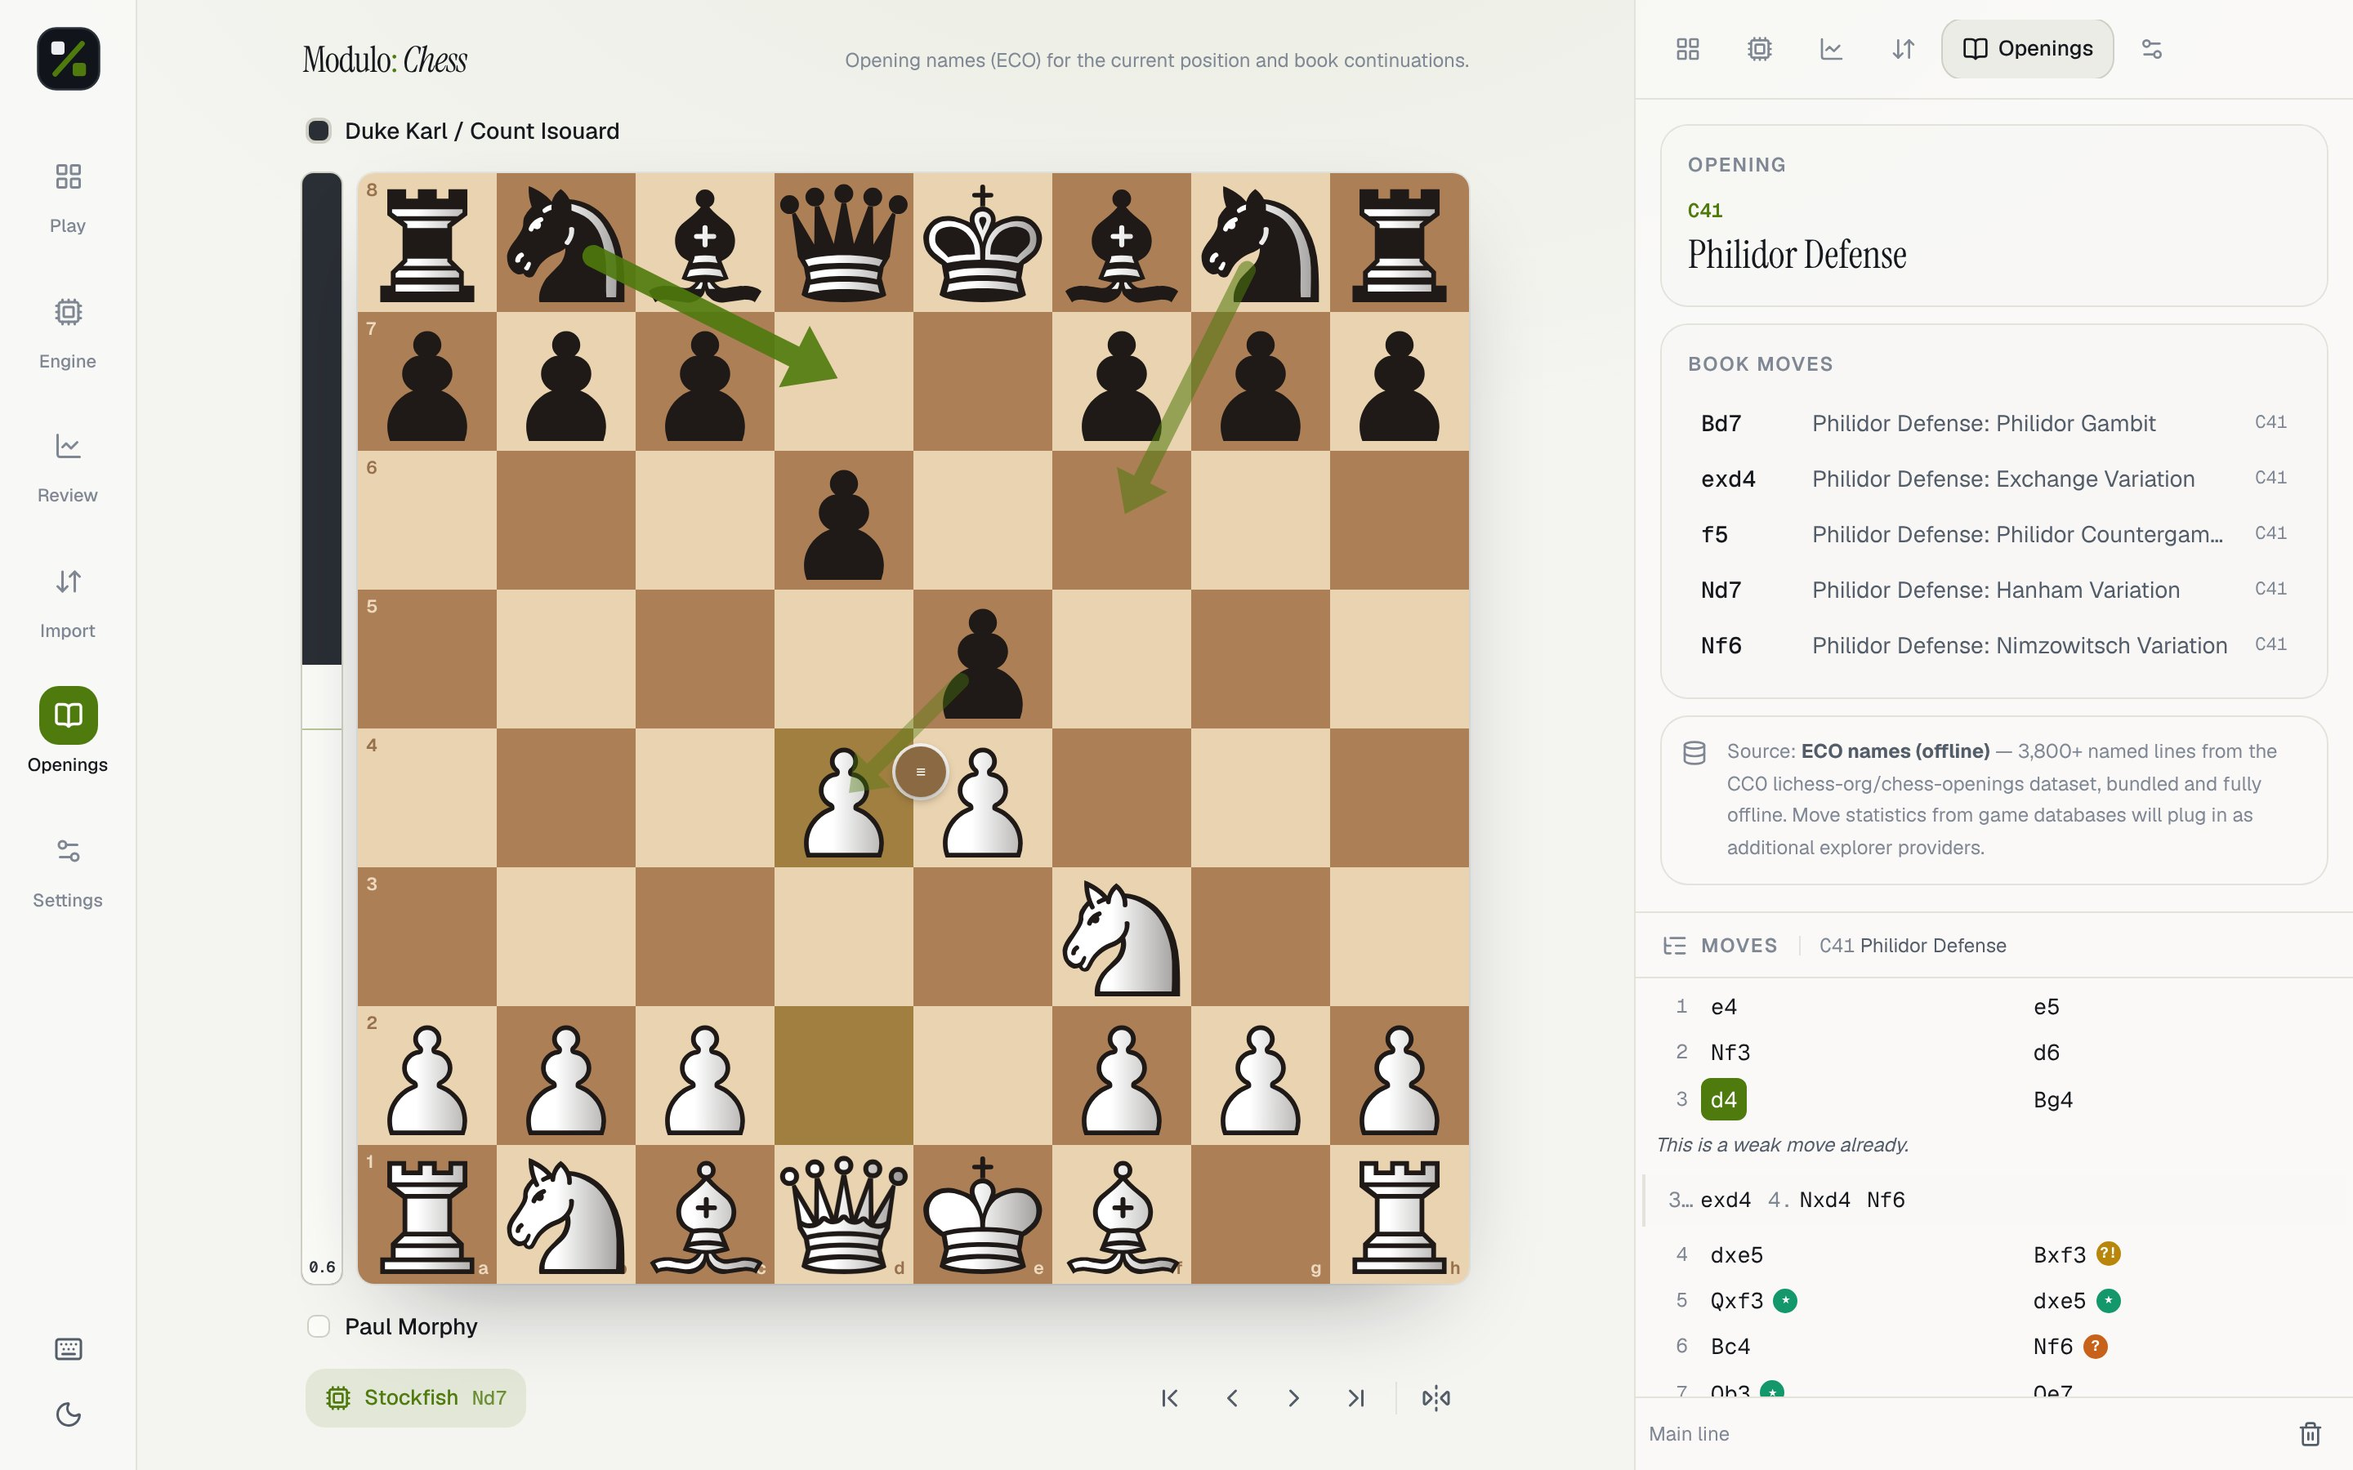
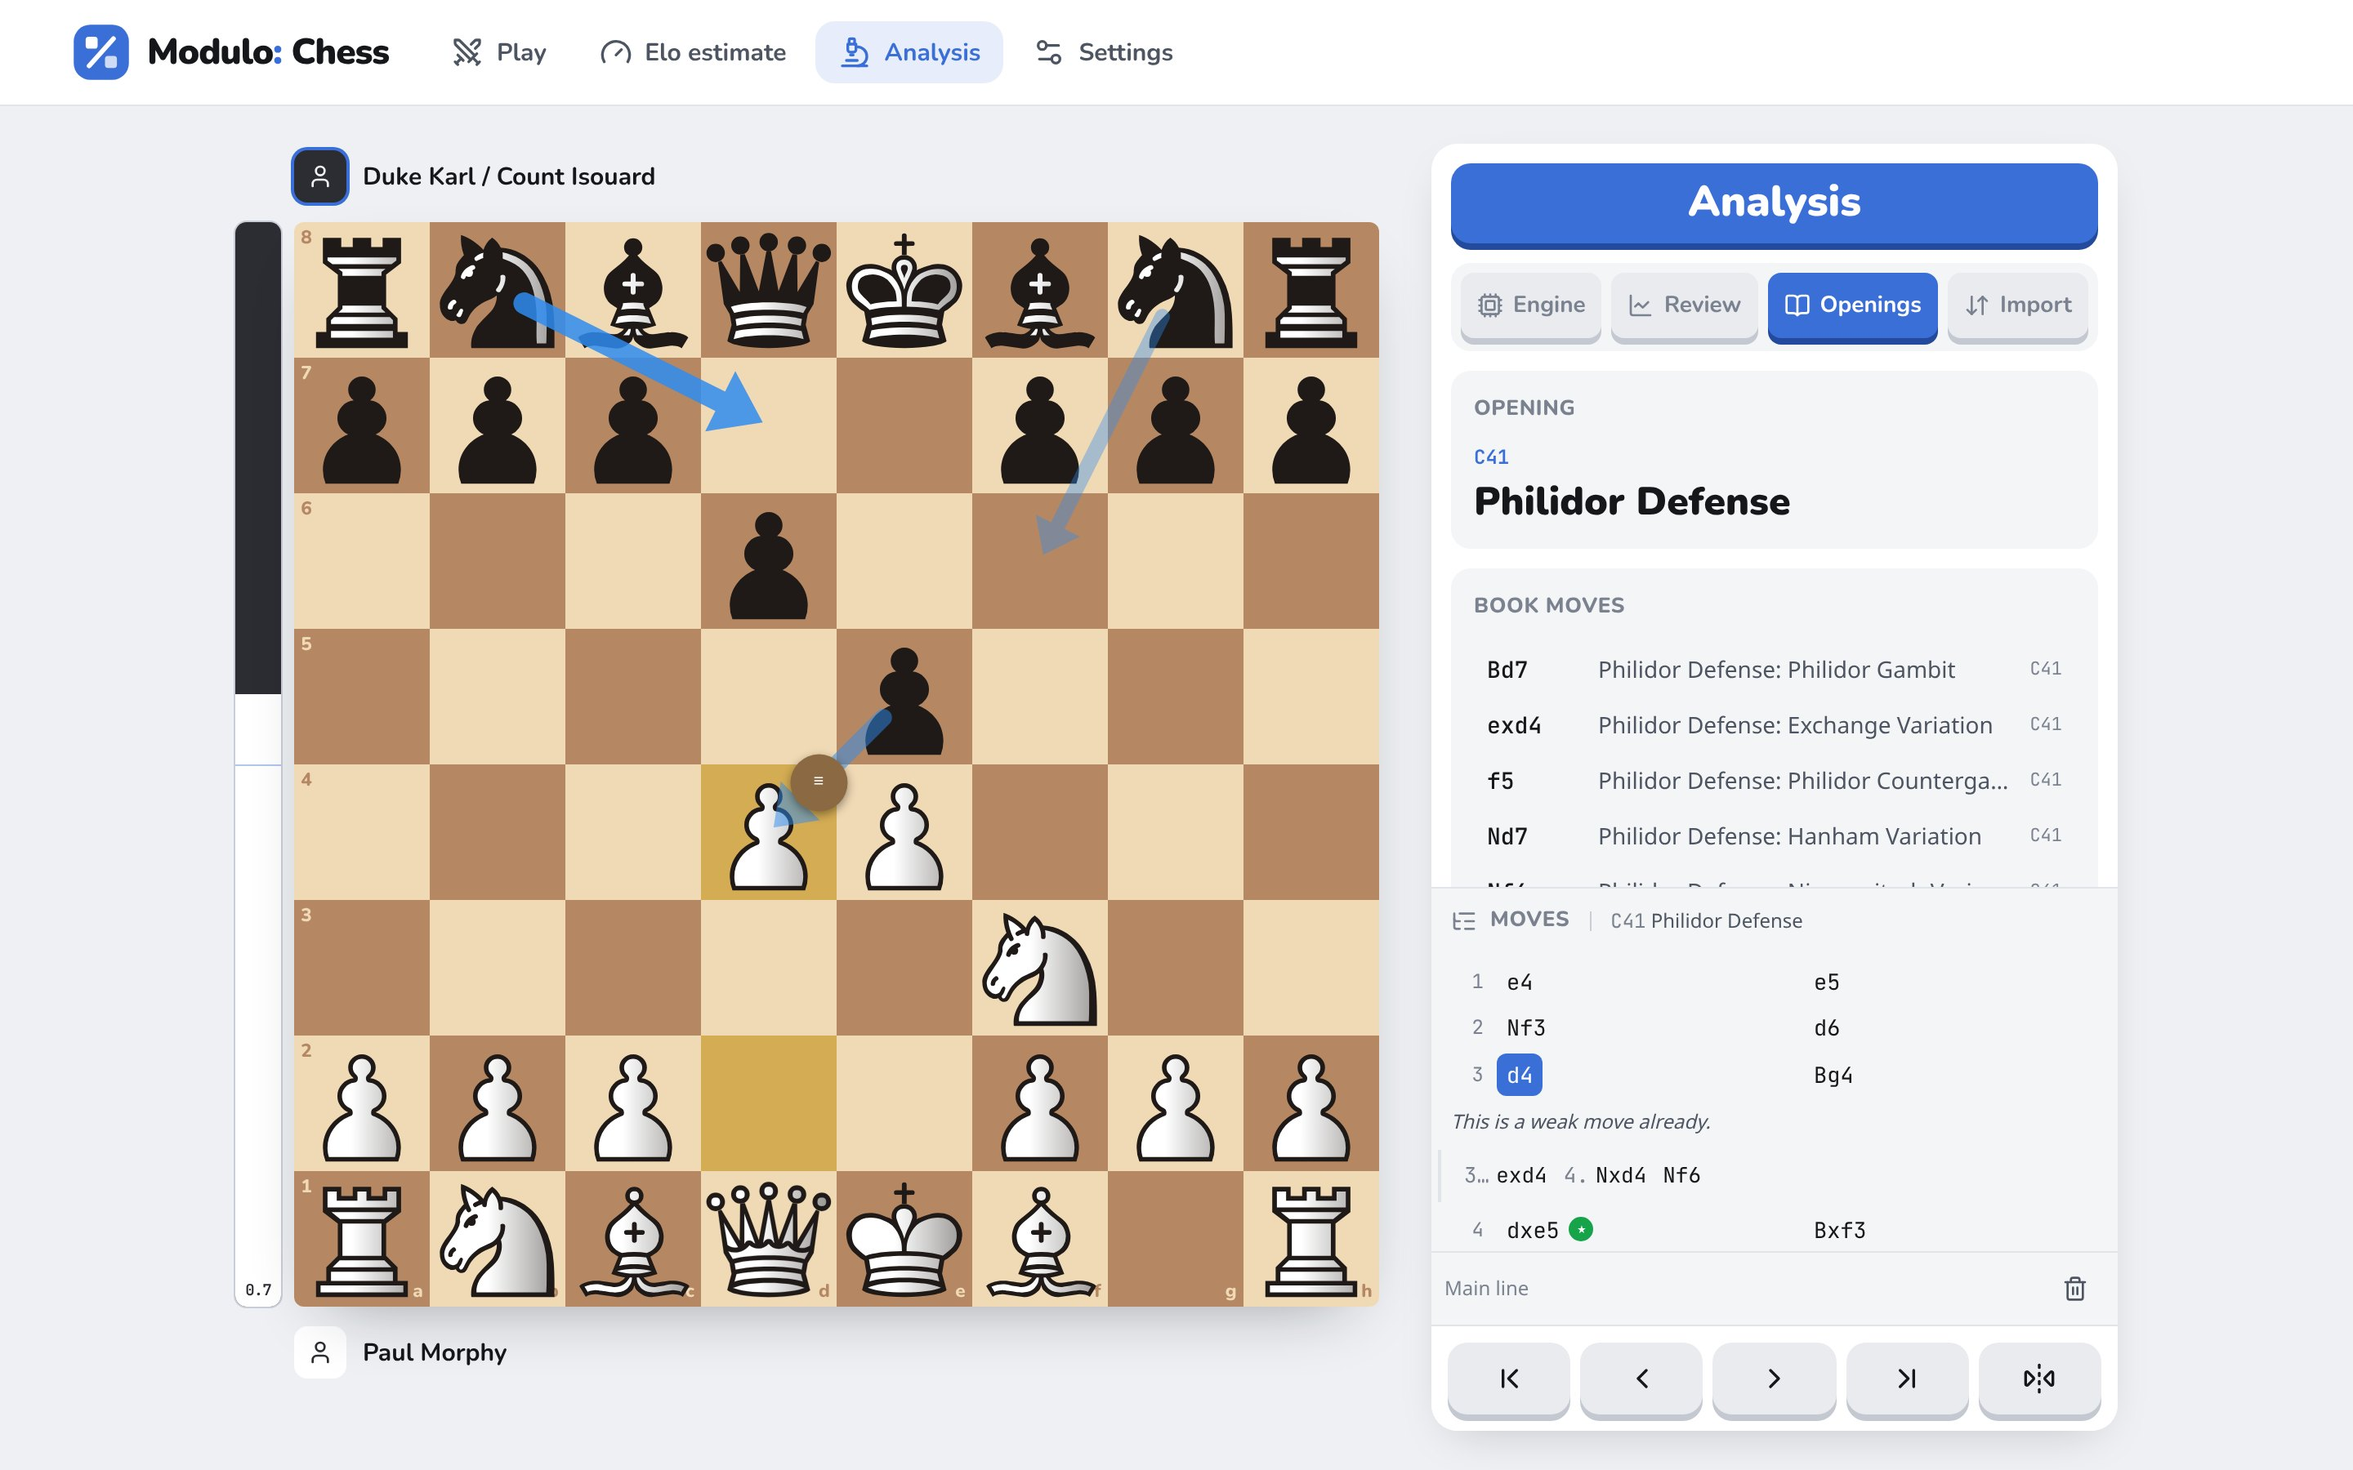
docs: update README and screenshots for the redesign and Elo estimate
Claude-Session: https://claude.ai/code/session_01FXBF7jtJxjrUtqt1y8qRxQ

diff --git a/README.md b/README.md
@@ -2,11 +2,15 @@
 
 **A modular chess analysis and play platform. Stockfish 19 runs entirely in your browser: no account, no backend, and nothing leaves your device.**
 
-Every feature is an isolated _module_ that plugs into a small core: the board, the engine, game review, import/export, openings and settings. New features can be added without refactoring anything, which is where the name comes from. The logo is a modulo operator (`%`) whose dots are chess squares.
+Every feature is an isolated _module_ that plugs into a small core: the board and play, an Elo estimate, the engine, game review, import/export, openings and settings. New features can be added without refactoring anything, which is where the name comes from. The logo is a modulo operator (`%`) whose dots are chess squares.
 
 [![Deploy with Vercel](https://vercel.com/button)](https://vercel.com/new/clone?repository-url=https%3A%2F%2Fgithub.com%2Fleiffurthersocial-rgb%2Fmodulo-chess&project-name=modulo-chess&repository-name=modulo-chess)
 
-| Game review (dark)                               | Openings (light, Walnut + Merida)                         |
+| Play vs Stockfish (Elo 250–3190)              | Elo estimate                                   |
+| --------------------------------------------- | ---------------------------------------------- |
+| ![Play setup](docs/screenshots/play-dark.jpg) | ![Elo estimate](docs/screenshots/elo-dark.jpg) |
+
+| Game review                                      | Openings (light theme, Merida pieces)                     |
 | ------------------------------------------------ | --------------------------------------------------------- |
 | ![Game review](docs/screenshots/review-dark.jpg) | ![Openings explorer](docs/screenshots/openings-light.jpg) |
 
@@ -23,7 +27,14 @@ Every feature is an isolated _module_ that plugs into a small core: the board, t
 - Custom animated board: drag-and-drop (mouse and touch), click-to-move, legal-move hints, last-move and check highlights, promotion picker, flip, coordinates.
 - Moves animate because piece identity is tracked between positions; a CSS transform does the rest.
 - Move list with **variations** (every move from an earlier position creates a branch), comments and NAGs, plus promote/delete variation. Navigate with the arrow keys or by clicking.
-- Play against Stockfish at **Skill Level 0–20** or a **target Elo (1320–3190)** via `UCI_LimitStrength`, as White, Black or random, optionally from the current position. Takeback, resign, rematch, and one click to review the game.
+- Play Stockfish at any **Elo from 250 to 3190**, with presets from Beginner (400) to Maximum. From 1320 up, Stockfish's own `UCI_LimitStrength`/`UCI_Elo` is used. Below 1320 (Stockfish's floor), Modulo weakens it itself: a shallower MultiPV search, a move _sampled_ by how much win probability it gives away, and occasional beginner-style oversights (`src/core/engine/strength.ts`).
+- Play as White, Black or random, optionally from the current position. Takeback, resign, rematch, and one click to review the game.
+
+**Elo estimate**
+
+- **Quick estimate (1 game):** the opponent adapts while you play. After a few moves it moves halfway towards your running estimate, at most 200 points at a time.
+- **Full estimate (3 games):** colours alternate, and each new opponent is set to your estimate so far. This gives a tighter range.
+- Every position is evaluated in the background on the analysis engine. Your non-book moves are scored by **win-probability accuracy** (harmonic mean, as lichess does, so single blunders count) and **average centipawn loss**. Move quality is blended with a **performance rating** from your results against each opponent's Elo, and quality gets more weight the longer the game. You get an estimate with a likely range (`src/core/analysis/eloEstimate.ts`). Past estimates are kept in `localStorage`.
 
 **Local Stockfish analysis**
 
@@ -50,8 +61,8 @@ Every feature is an isolated _module_ that plugs into a small core: the board, t
 **Design**
 
 - Dark theme by default plus light and system themes, all as CSS variables. There are 5 board themes and 4 open-licensed piece sets.
-- Typography: Geist, Geist Mono for numbers and moves, and Instrument Serif for display text. Motion is subtle and respects `prefers-reduced-motion`.
-- Responsive. On desktop: nav rail, centred board, tabbed analysis panel and move list. On mobile: full-width board, a move strip, and a draggable bottom sheet.
+- Clear two-part layout. A top bar holds the pages (Play, Elo estimate, Analysis, Settings). The board stands alone on the left, with player cards and the eval bar. **All controls** live in one panel card on the right: a title banner, chunky tabs for the page's tools, the content, the move list, and move navigation at the bottom. On mobile the panel sits below the board and move navigation is pinned to the bottom of the screen.
+- Slate palette with a single blue accent, Nunito for headings and buttons, Noto Sans for text, and JetBrains Mono for moves and numbers. Buttons are "pressable" 3D controls. Motion is subtle and respects `prefers-reduced-motion`.
 - Accessible: the board is an ARIA grid with a roving keyboard cursor (arrows + Enter to move pieces). Visible focus states, live regions for engine and game status, a skip link, and a `?` shortcut sheet.
 - Synthesized move, capture, check and game-end sounds (WebAudio, no audio assets), which can be toggled off.
 
@@ -85,7 +96,7 @@ npm i -D playwright && npx playwright install chromium   # once
 npm run verify:engine -- http://localhost:3000
 ```
 
-This drives a real Chromium through 15 checks:
+This drives a real Chromium through 16 checks:
 
 - cross-origin isolation and the multi-threaded boot
 - 3 MultiPV lines that deepen with nodes/sec
@@ -93,7 +104,8 @@ This drives a real Chromium through 15 checks:
 - a clean stop
 - PGN import with variations, then a full-game review
 - drag-and-drop and keyboard-only moves
-- a reply from the engine opponent
+- a reply from a 400-Elo (custom-weakened) engine opponent
+- a quick Elo estimate that ends in a rating
 - the single-threaded fallback when COOP/COEP are stripped
 - mobile overflow and page errors
 
@@ -105,19 +117,20 @@ src/
 ├── core/                     Framework-free logic (unit tested)
 │   ├── engine/               EngineService (UCI client), transport, parser, eval math, worker boot, pool
 │   ├── chess/                Game tree with variations, PGN parser/serializer, FEN helpers
-│   ├── analysis/             Move classification + accuracy
+│   ├── analysis/             Move classification, accuracy, Elo estimation
 │   ├── modules/              ModuleManifest type + registry
 │   ├── models/               Domain models & repository interfaces for roadmap features
 │   └── sound/                WebAudio sound kit
 ├── modules/                  ← features live here
 │   ├── registry.ts           the only list of installed modules
 │   ├── board/                Play panel, engine opponent controller, sounds + hotkeys
+│   ├── elo-estimate/         Quick / full Elo estimate: panel, session, background evaluator
 │   ├── engine/               Engine panel + live-analysis controller
 │   ├── game-review/          Review panel, eval graph, review runner
 │   ├── import-export/        PGN/FEN import & export
 │   ├── openings/             ECO lookup, explorer provider interface, bundled data
 │   └── settings/             Settings panel + theme controller
-├── stores/                   Zustand stores (game, engine, review, settings, openings, toasts)
+├── stores/                   Zustand stores (game, engine, review, elo, settings, openings, toasts)
 ├── components/               board/, shell/ (AppShell, BoardArea, MoveList), ui/ primitives
 └── themes/                   Board themes and piece-set metadata
 ```
@@ -125,10 +138,10 @@ src/
 ```mermaid
 flowchart LR
   subgraph Shell["App shell (root layout)"]
-    Nav[Nav rail / tabs] --- Board[BoardArea + MoveList] --- Panel[Active module panel]
+    Nav[Top bar: nav groups] --- Board[BoardArea] --- Panel[Panel: tabs · module · moves · navigation]
   end
   Registry[(modules/registry.ts)] -->|manifests| Shell
-  Registry --> Controllers[Module controllers<br/>engine · play · sounds · theme]
+  Registry --> Controllers[Module controllers<br/>engine · play · elo · sounds · theme]
   Controllers --> Stores[(Zustand stores<br/>game · engine · review · settings)]
   Shell <--> Stores
   Controllers --> Pool[Engine pool<br/>analysis · play]
@@ -147,15 +160,16 @@ export interface ModuleManifest {
   description: string; // page metadata + header
   icon: ComponentType; // lucide-react icon
   route?: string; // e.g. "/review"; "/" = default module
-  order: number; // nav order
-  panel?: ComponentType; // shown in the analysis panel / mobile sheet
+  order: number; // order within its group
+  group?: string; // top-bar page it belongs to (defaults to its id)
+  panel?: ComponentType; // shown in the page's panel
   controller?: ComponentType; // headless, mounted once for the app's lifetime
   shortcut?: string; // single key that opens the panel
   hidden?: boolean;
 }
 ```
 
-The registry (`createRegistry`) validates ids and routes so mistakes fail the build. The shell derives everything else from the manifests: the sidebar, panel tabs, mobile sheet tabs, keyboard shortcuts, background controllers and the statically generated routes, via `generateStaticParams` in `app/[[...slug]]/page.tsx`. The workspace lives in the root layout, so the board, engine and review state survive navigation between modules.
+The registry (`createRegistry(manifests, navGroups)`) validates ids and routes so mistakes fail the build. Each **nav group** is one top-bar page; modules that share a group become tabs in that page's panel. For example, `engine`, `game-review`, `openings` and `import-export` all sit under **Analysis**. The shell derives everything else from the manifests: the top bar, panel tabs, keyboard shortcuts, background controllers and the statically generated routes, via `generateStaticParams` in `app/[[...slug]]/page.tsx`. The workspace lives in the root layout, so the board, engine and review state survive navigation between modules.
 
 ### Adding a module
 
@@ -172,14 +186,15 @@ The registry (`createRegistry`) validates ids and routes so mistakes fail the bu
      description: "Tactics training.",
      icon: Puzzle,
      route: "/puzzles",
+     group: "puzzles", // or "analysis" to appear as a tab on the Analysis page
      order: 60,
      panel: PuzzlesPanel,
      shortcut: "z",
    };
    ```
-3. Add `puzzlesModule` to the array in `src/modules/registry.ts`.
+3. Add `puzzlesModule` to the array in `src/modules/registry.ts`. If it starts a new page, also add a `NavGroup` (label, icon, order, `showMoves`) to `NAV_GROUPS` there.
 
-That's all. `/puzzles` is generated at build time, and the module appears in navigation and in the mobile sheet. If the module needs background work, such as a clock or a websocket, give it a `controller`. If it needs the engine, call `getEngine("analysis" | "play")` from `src/core/engine/pool.ts`, or add a new role.
+That's all. `/puzzles` is generated at build time, and the module appears in the top bar, or as a tab on its group's page. If the module needs background work, such as a clock or a websocket, give it a `controller`. If it needs the engine, call `getEngine("analysis" | "play")` from `src/core/engine/pool.ts`, or add a new role.
 
 ## How Stockfish is integrated
 
@@ -239,7 +254,7 @@ vercel git connect   # deploy automatically on push
 vercel --prod        # first production deploy
 ```
 
-After deploying, open the site and run `crossOriginIsolated` in the console; it should print `true`. The Engine panel should show `· multi-threaded`.
+After deploying, open the site and run `crossOriginIsolated` in the console; it should print `true`. The Analysis → Engine tab should show `· multi-threaded`.
 
 ## Licensing
 
@@ -268,7 +283,7 @@ The design is ready for these; none of them are built yet. Domain models and rep
 
 - Games live in memory; a full page reload starts a fresh board. Settings persist. Saved games are on the roadmap.
 - The lite NNUE is weaker than full Stockfish (still far beyond human strength). Depth/nps are lower in single-threaded mode, for example on hosts without COOP/COEP or in browsers that refuse `SharedArrayBuffer`.
-- Elo-limited play uses Stockfish's own `UCI_Elo` calibration (engine-vs-engine, long time controls), so it can feel stronger than human ratings suggest at the low end.
+- From 1320 up, play uses Stockfish's own `UCI_Elo` calibration (engine-vs-engine, long time controls), which can feel stronger than human ratings at the low end. Levels below 1320 come from Modulo's own weakening model, which is tuned by hand rather than calibrated against rated humans.
+- Elo estimates are heuristic. The accuracy and centipawn-loss curves are approximations of typical online ratings, and short or one-sided games carry little information. That's why a range is shown, and why the full 3-game mode is more reliable.
 - Accuracy uses a plain mean of per-move accuracy (lichess uses a volatility-weighted blend), so numbers differ slightly from lichess and chess.com.
-- On short phone screens the bottom sheet's half and full states cover the board controls; swipe the sheet down to reach them.
 - Under Partial Prerendering, unknown URLs show the in-app "Off the board" message but return HTTP 200.
